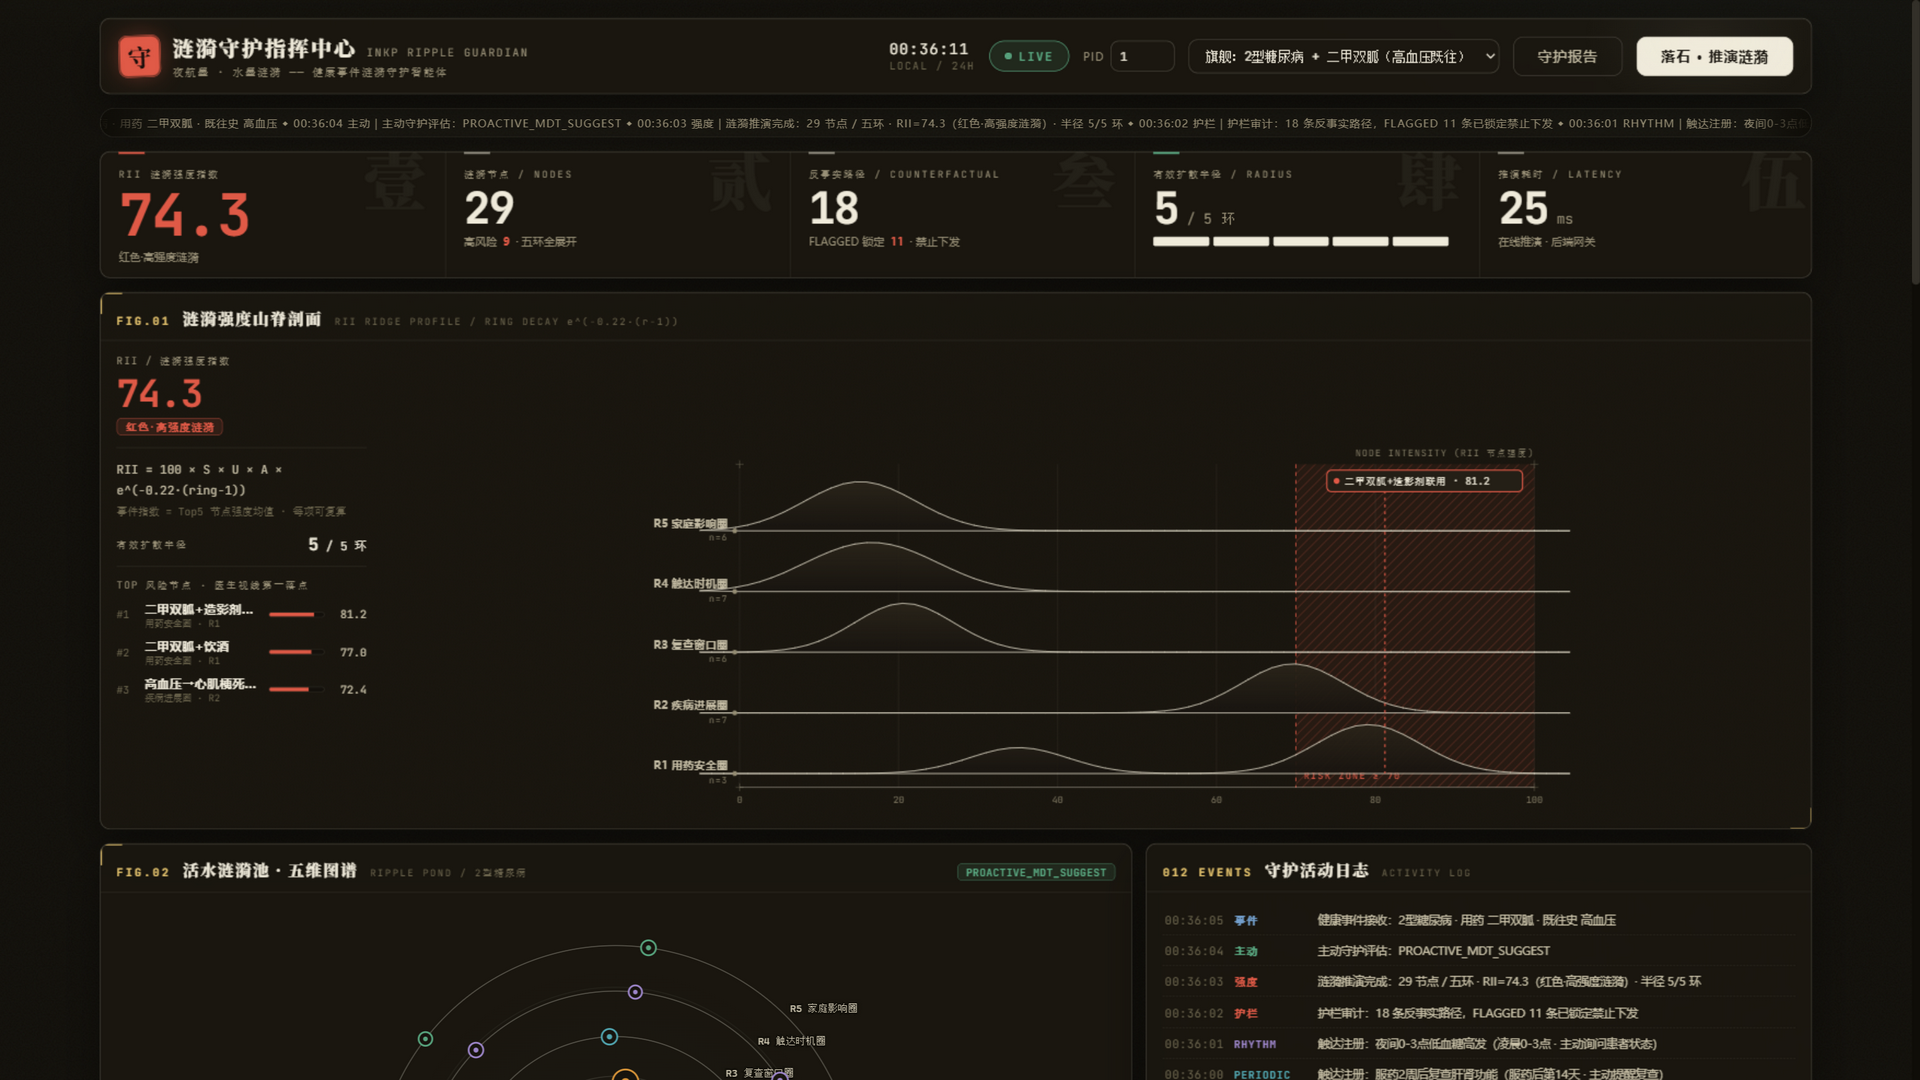
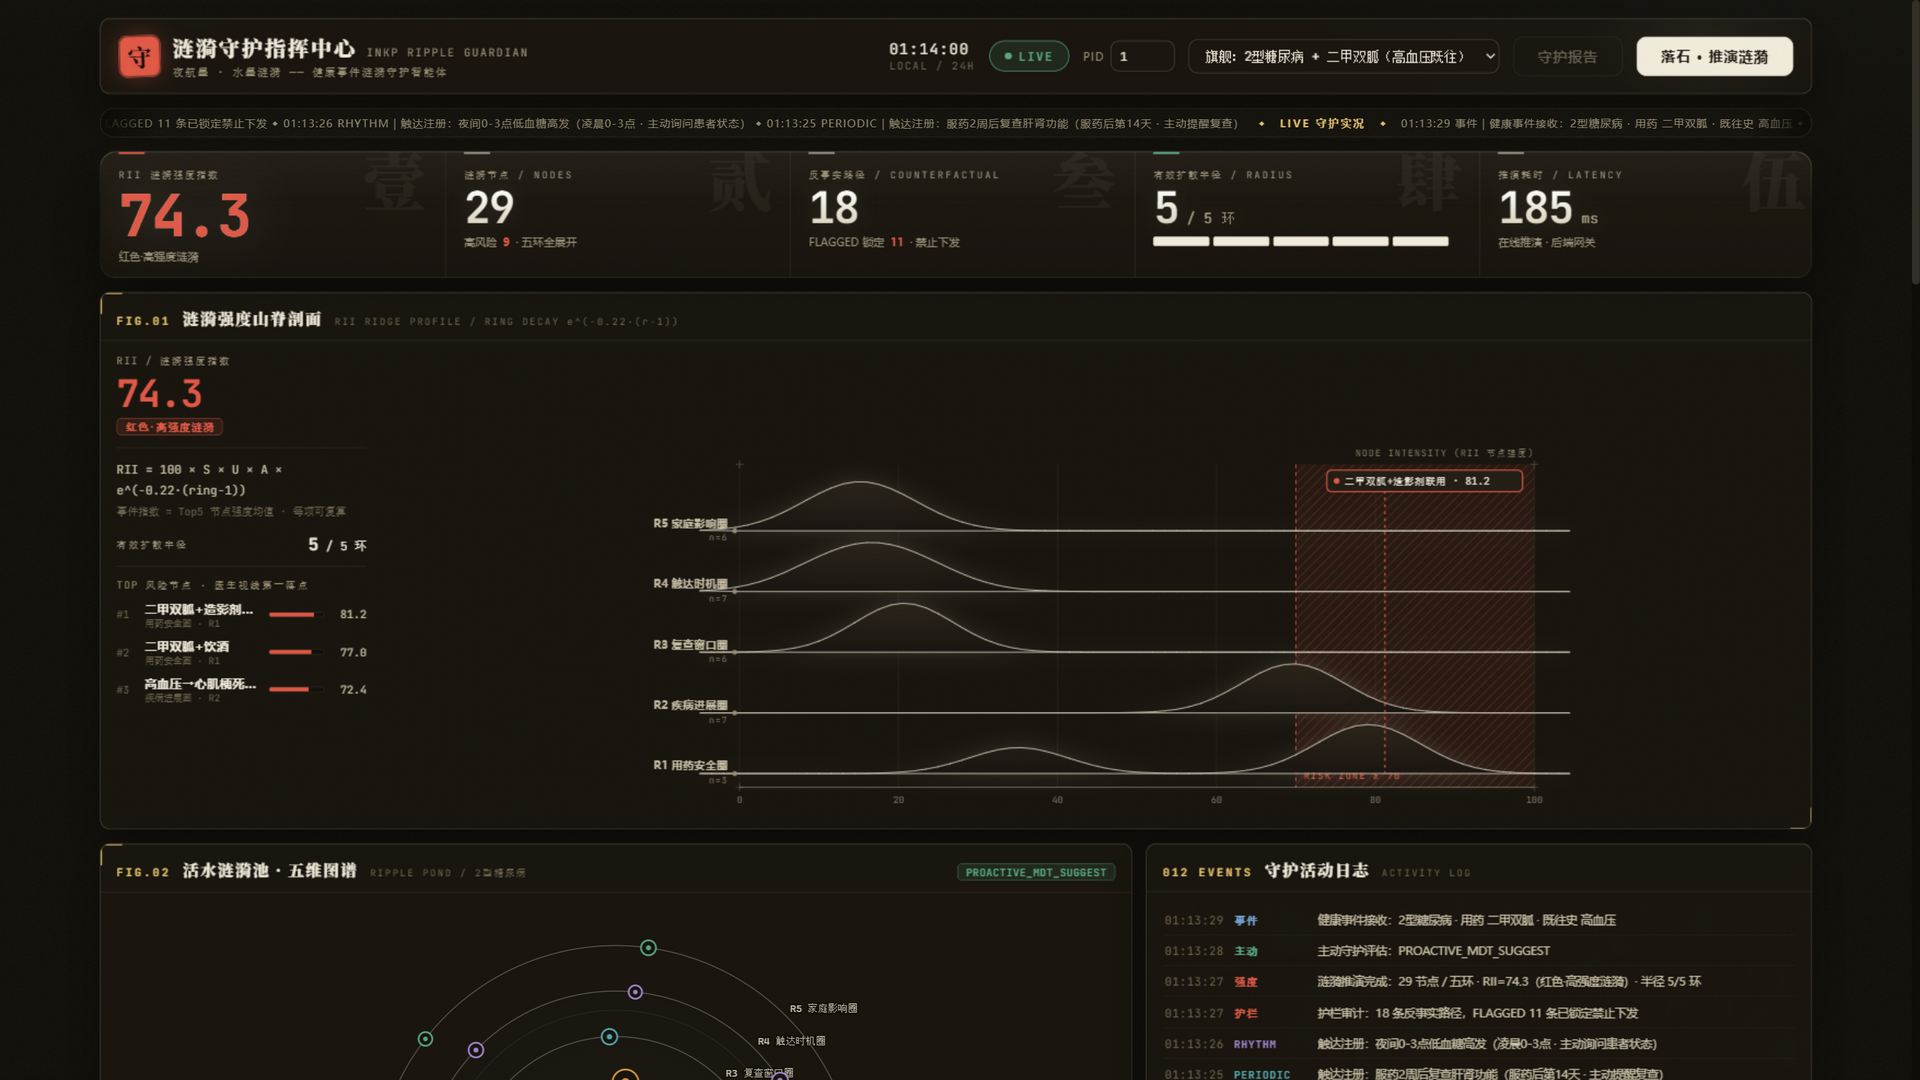
大屏高级感二轮（Dribbble高赞暗金仪表盘逐帧分析落地）：面板/统计带渐变描边（顶部受光）+内顶辉光+深悬浮阴影+悬停上浮物理；数字金属渐变裁切（普通格上亮下暗/英雄格等级色暖光晕）；山脊曲线发光；新增4张墨玉鎏金截图资产

diff --git a/frontend/apps/ripple-console/src/style.css b/frontend/apps/ripple-console/src/style.css
@@ -234,11 +234,14 @@ button.big:hover::after { transform: translateX(130%); }
 
 /* ---------- 编辑式指标长条：数字即设计（巨型数字分级 + 印字水印，参照 F1 Racing Hub 数字层级） ---------- */
 .stat-strip {
-  border: 1px solid var(--line-strong);
-  border-radius: 10px;
-  background: var(--card-glass);
-  backdrop-filter: blur(10px);
-  box-shadow: var(--shadow-card);
+  border: 1px solid transparent;
+  border-radius: 16px;
+  background:
+    linear-gradient(rgba(29, 25, 18, 0.88), rgba(24, 20, 13, 0.92)) padding-box,
+    linear-gradient(180deg, rgba(240, 235, 219, 0.32), rgba(240, 235, 219, 0.06) 42%, rgba(240, 235, 219, 0.12)) border-box;
+  box-shadow:
+    inset 0 1px 0 rgba(240, 235, 219, 0.08),
+    0 26px 64px rgba(0, 0, 0, 0.45);
   overflow: hidden;
   position: relative;
 }
@@ -290,9 +293,14 @@ button.big:hover::after { transform: translateX(130%); }
   line-height: 1.05;
   letter-spacing: -1.5px;
   font-variant-numeric: tabular-nums;
+  background: linear-gradient(180deg, #ffffff 8%, #d9d2ba 92%);
+  -webkit-background-clip: text;
+  background-clip: text;
+  color: transparent;
+  filter: drop-shadow(0 0 10px rgba(240, 235, 219, 0.10));
 }
-/* 英雄数字：RII 用最大号——数字分级是 F1 Racing Hub 的核心语言 */
-.stat-cell.hero .value { font-size: 58px; letter-spacing: -2px; }
+/* 英雄格：更大 + 等级色暖光晕（等级色是语义，不可被装饰覆盖） */
+.stat-cell.hero .value { font-size: 58px; letter-spacing: -2px; filter: drop-shadow(0 0 22px rgba(240, 235, 219, 0.22)); }
 .stat-cell .value small { font-size: 14px; color: var(--muted); font-weight: 400; letter-spacing: 0; }
 .stat-cell .sub { font-size: 11px; color: var(--muted); display: flex; align-items: center; gap: 6px; white-space: nowrap; overflow: hidden; }
 .stat-cell .sub .up { color: var(--green); font-weight: 700; }

diff --git a/frontend/apps/ripple-console/src/components/RidgePlot.vue b/frontend/apps/ripple-console/src/components/RidgePlot.vue
@@ -144,6 +144,7 @@ const axisTicks = [0, 20, 40, 60, 80, 100];
 <style scoped>
 .ridge { min-width: 0; }
 .ridge-svg { width: 100%; height: auto; max-height: clamp(320px, 44vh, 460px); display: block; margin: 0 auto; }
+.ridge-layer { filter: drop-shadow(0 0 10px rgba(216, 210, 192, 0.16)); }
 .ridge-layer {
   fill: url(#ridge-fill);
   fill-opacity: 0.94;

diff --git a/开发进度文档.md b/开发进度文档.md
@@ -399,3 +399,12 @@ cd ../dumate-skills/health-ripple && py -3 scripts/test_security_smoke.py
 | MCP 冒烟 | **6/6**（握手/工具清单/气象/预报沙盘/雷达/验印实调） |
 | 浏览器实测 | 雷达 FIG.07 渲染（潮汐100·HIGH，45患者2148触达）；家属只读页免登录渲染；Noto Serif SC/JetBrains Mono 字体加载确认 |
 | Docker | gateway/ripple-service/双前端重建，容器全部 healthy |
+
+
+---
+
+## 二h、高级感二轮（逐帧分析 Dribbble 高赞暗金仪表盘后）
+
+- 参照：Dribbble "dashboard dark premium" 高赞 Arobox（21.4k）+ motionsites F1/Bio-Age——高级感=「受光的浮层」而非「画出来的框」
+- 落地三件套：①面板/统计带**渐变描边**（上缘亮下缘隐的受光边框）+ 内顶辉光 + 深悬浮阴影；②悬停物理（上浮2px+鎏金描边泛光）；③**数字金属质感**（普通格上亮下暗渐变裁切、英雄格等级色+暖光晕）
+- 山脊曲线加发光（drop-shadow）；已部署 5176 并截图入 docs-assets/screenshots-r9/
